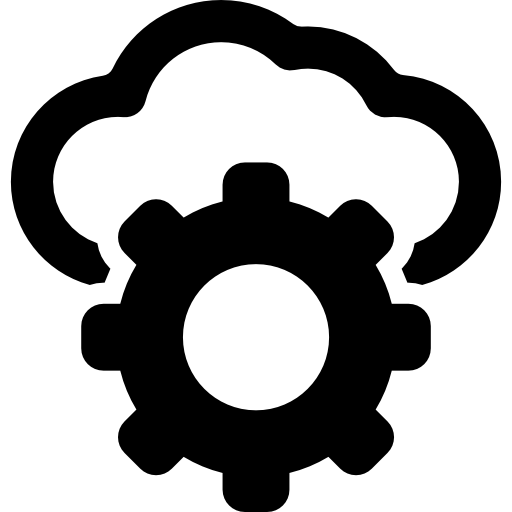
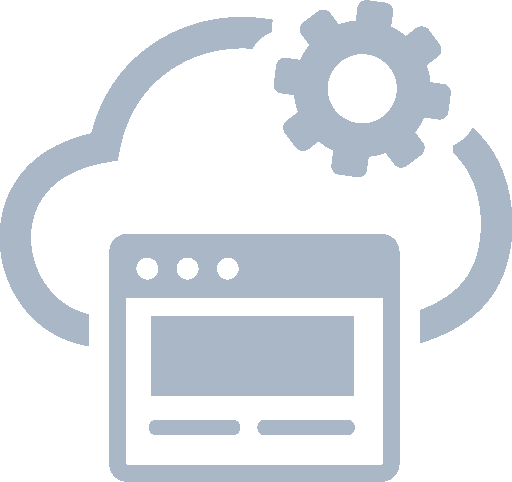
resources img refactor

diff --git a/src/main/java/app/ApplicationJavaFx.java b/src/main/java/app/ApplicationJavaFx.java
@@ -28,7 +28,7 @@ public class ApplicationJavaFx extends Application {
         FXMLLoader fxmlLoader = new FXMLLoader(ApplicationJavaFx.class.getResource("/fxml/main.fxml"));
         AnchorPane anchorPane = fxmlLoader.load();
         Scene scene = new Scene(anchorPane);
-        primaryStage.getIcons().add(new Image(Objects.requireNonNull(ApplicationJavaFx.class.getResourceAsStream("/img/logo_3.png"))));
+        primaryStage.getIcons().add(new Image(Objects.requireNonNull(ApplicationJavaFx.class.getResourceAsStream("/img/img_1.png"))));
         primaryStage.setTitle("Generator usług REST Web Services");
         primaryStage.setResizable(false);
         primaryStage.setScene(scene);
